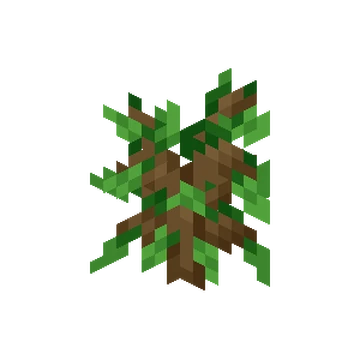
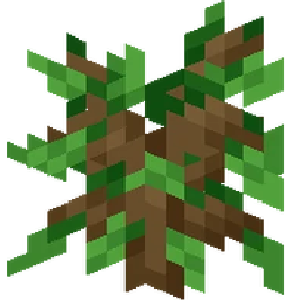
Lots of progress. Read desc.
Added additional tree types. Added basic the ability of the pomodoro timer to select which tree to grow. Updated tasklist methods to consistently access the database. user docs are now stored by username with uid as an attribute.

diff --git a/src/components/TasklistList.jsx b/src/components/TasklistList.jsx
@@ -37,8 +37,18 @@ function TasklistList() {
 	}, [JSON.stringify(tasks)]);
 
 	useEffect(() => {
-		console.log('attempting to load state');
-		loadState();
+		if (user) {
+			console.log('attempting to load state');
+			console.log(user.uid);
+			const q = query(collection(db, "users"), where("userID", "==", user.uid));
+			getDocs(q).then((snapshot) => {
+				console.log(snapshot);
+				snapshot.forEach((doc) => {
+					console.log(doc.data().username);
+					loadState(doc.data().username);
+				})
+			})
+		}
 	}, [user]);
 
 	const addTasklist = title => {
@@ -97,108 +107,72 @@ function TasklistList() {
 	};
 
 	const SaveState = () => {
+		var username;
 		if (user) {
-			setDoc(doc(db, 'users', user.uid), {}, { merge: true }).then(() => {
-				const tasklistsRef = collection(db, 'users', user.uid, 'tasklists');
-				const tasklistsQuery = query(tasklistsRef);
-				getDocs(tasklistsQuery)
-					.then(tasklistsSnapshot => {
+			const q = query(collection(db, "users"), where("userID", "==", user.uid));
+			getDocs(q).then(userssnapshot => {
+				userssnapshot.forEach(user => {
+					username = user.data().username;
+				})
+			}).then(() => {
+				setDoc(doc(db, 'users', username), {}, { merge: true }).then(() => {
+					const tasklistsRef = collection(db, 'users', username, 'tasklists');
+					const tasklistsQuery = query(tasklistsRef);
+					getDocs(tasklistsQuery).then(tasklistsSnapshot => {
 						tasklistsSnapshot.forEach(tasklistDoc => {
-							const tasksRef = collection(
-								db,
-								'users',
-								user.uid,
-								'tasklists',
-								tasklistDoc.id,
-								'tasks'
+							const tasksRef = collection(db,'users', username,'tasklists',tasklistDoc.id,'tasks'
 							);
 							const tasksQuery = query(tasksRef);
 							getDocs(tasksQuery).then(tasksSnapshot => {
 								tasksSnapshot.forEach(taskDoc => {
-									deleteDoc(
-										doc(
-											db,
-											'users',
-											user.uid,
-											'tasklists',
-											tasklistDoc.id,
-											'tasks',
-											taskDoc.id
-										)
-									);
+									deleteDoc(doc(db, 'users', user.uid, 'tasklists', tasklistDoc.id, 'tasks', taskDoc.id));
 								});
 							});
-							deleteDoc(
-								doc(db, 'users', user.uid, 'tasklists', tasklistDoc.id)
-							);
+							deleteDoc(doc(db, 'users', username, 'tasklists', tasklistDoc.id));
 						});
-					})
-					.then(() => {
+					}).then(() => {
 						//add new up-to-date data to the database
 						tasklistsList.forEach(tasklist => {
 							console.log('attempting to save to database');
 							setDoc(
-								doc(db, 'users', user.uid, 'tasklists', tasklist.id),
+								doc(db, 'users', username, 'tasklists', tasklist.id),
 								{ title: tasklist.title },
 								{ merge: true }
 							).then(() => {
 								tasks[tasklist.id].forEach(task => {
-									setDoc(
-										doc(
-											db,
-											'users',
-											user.uid,
-											'tasklists',
-											tasklist.id,
-											'tasks',
-											task.taskID
-										),
+									setDoc(doc(db, 'users', username, 'tasklists', tasklist.id, 'tasks', task.taskID),
 										{ title: task.title, completed: task.completed },
 										{ merge: true }
-									);
+								  );
 								});
 							});
 						});
 					});
+				})
 			});
 		}
 	};
 
-	const loadState = () => {
-		console.log('attempting to load tasks');
+	const loadState = (username) => {
 		setTasks({});
 		setTasklists([]);
 		let newTasklists = [];
 		if (user) {
 			const tasklistsQuery = query(
-				collection(db, 'users', user.uid, 'tasklists')
+				collection(db, 'users', username, 'tasklists')
 			);
 			getDocs(tasklistsQuery).then(tasklistsSnapshot => {
-				console.log(tasklistsSnapshot);
 				tasklistsSnapshot.forEach(tasklistsDoc => {
 					console.log(tasklistsDoc.data());
-					newTasklists = [
-						...newTasklists,
-						{ title: tasklistsDoc.data().title, id: tasklistsDoc.id },
+					newTasklists = [...newTasklists, { title: tasklistsDoc.data().title, id: tasklistsDoc.id },
 					];
 					setTasklists(JSON.parse(JSON.stringify(newTasklists)));
 					let dummyTasks = tasks;
 					dummyTasks[tasklistsDoc.id] = [];
 					setTasks(dummyTasks);
-					const tasksQuery = query(
-						collection(
-							db,
-							'users',
-							user.uid,
-							'tasklists',
-							tasklistsDoc.id,
-							'tasks'
-						)
-					);
+					const tasksQuery = query(collection(db, 'users', username, 'tasklists', tasklistsDoc.id, 'tasks'));
 					getDocs(tasksQuery).then(tasksSnap => {
-						//console.log(tasksSnap);
 						tasksSnap.forEach(taskDoc => {
-							//console.log(taskDoc.data())
 							let newTasks = tasks;
 							let newTasksArray = newTasks[tasklistsDoc.id];
 							newTasksArray.push({

diff --git a/src/components/TimerBar.jsx b/src/components/TimerBar.jsx
@@ -1,20 +1,20 @@
 import ProgressBar from "@ramonak/react-progress-bar";
-import Tree from '../assets/tree.png'
-import Sapling from '../assets/seedling.png'
+import treeImages from './treeImages.jsx'
+import {Button} from '@mui/material'
 import {useState, useEffect} from 'react'
 const TimerBar = ({percentDone, studyState}) => {
-    const [treeSelection, updateTreeSelection] = useState({})
+    const [treeSelection, updateTreeSelection] = useState(0)
     const maxTrees = 2;
     const decrementTreeSelection = () => {
         if (treeSelection == 0) {
-            updateTreeSelection(maxTrees);
+            updateTreeSelection(maxTrees - 1);
         }
         else {
             updateTreeSelection(treeSelection - 1);
         }
     }
     const incrementTreeSelection = () => {
-        if (treeSelection == maxTrees) {
+        if (treeSelection == maxTrees - 1) {
             updateTreeSelection(0);
         }
         else {
@@ -22,13 +22,20 @@ const TimerBar = ({percentDone, studyState}) => {
         }
     }
 
+
     return (
         <div style={{position:"relative"}}>
             <ProgressBar completed={percentDone}/>
-            <img src={Tree} style={{opacity:percentDone / 100}}/>
-            <img src={Sapling} style={{opacity:(1 - (percentDone/100)), position:"absolute", top:0, left:0,}}/>
-            <button onClick={decrementTreeSelection}/>
-            <button onClick={incrementTreeSelection}/>
+            <img src={treeImages[treeSelection].tree} style={{opacity:percentDone / 100}}/>
+            <img src={treeImages[treeSelection].sapling} style={{opacity:(1 - (percentDone/100)), position:"absolute", top:0, left:0,}}/>
+            <div>
+                <Button variant="contained" sx={{ fontSize: '0.75rem', padding: '6px 12px' }} onClick={decrementTreeSelection}>
+                    Previous Tree
+                </Button>
+                <Button variant="contained" sx={{ fontSize: '0.75rem', padding: '6px 12px' }} onClick={incrementTreeSelection}>
+                    Next Tree
+                </Button>
+            </div>
         </div>
     )
 }

diff --git a/src/routes/tasklistPage.jsx b/src/routes/tasklistPage.jsx
@@ -35,11 +35,17 @@ function TasklistsPage() {
 	const user = useUser(false);
 
 	const savePreferences = () => {
+		var username;
 		if (user) {
-			const docRef = doc(db, 'users', user.uid);
-			console.log("saving user prefs");
-			console.log(preferences);
-			setDoc(docRef, {preferences:preferences}, {merge:true});
+			const q = query(collection(db, "users"), where("userID", "==", user.uid));
+			getDocs(q).then(userssnapshot => {
+				userssnapshot.forEach(user => {
+					username = user.data().username;
+				})
+			}).then(() => {
+				const docRef = doc(db, 'users', username);
+				setDoc(docRef, {preferences:preferences}, {merge:true});
+			})
 		}
 	}
 
@@ -50,11 +56,20 @@ function TasklistsPage() {
 
 
 	useEffect(() => {
+		var username;
 		if (user) {
-			const docRef = doc(db, 'users', user.uid);
-			setDoc(docRef, {}, {merge:true}).then(() => {
-				getDoc(docRef).then((doc) => {
-					setPreferences({color:doc.data().preferences.color});
+			const q = query(collection(db, "users"), where("userID", "==", user.uid));
+			getDocs(q).then(userssnapshot => {
+				userssnapshot.forEach(user => {
+					console.log(user.data().username);
+					username = user.data().username;
+				})
+			}).then(() => {
+				const docRef = doc(db, 'users', username);
+				setDoc(docRef, {}, {merge:true}).then(() => {
+					getDoc(docRef).then((doc) => {
+						setPreferences({color:doc.data().preferences.color});
+					})
 				})
 			})
 		}

diff --git a/src/components/treeImages.jsx b/src/components/treeImages.jsx
@@ -1,0 +1,11 @@
+import Tree1 from '../assets/tree.png'
+import Tree2 from '../assets/tree2.png'
+import Sapling1 from '../assets/seedling.png'
+import Sapling2 from '../assets/seedling2.png'
+
+const treeImages = [
+  {tree:Tree1, sapling:Sapling1},
+  {tree:Tree2, sapling:Sapling2}
+]
+
+export default treeImages;
